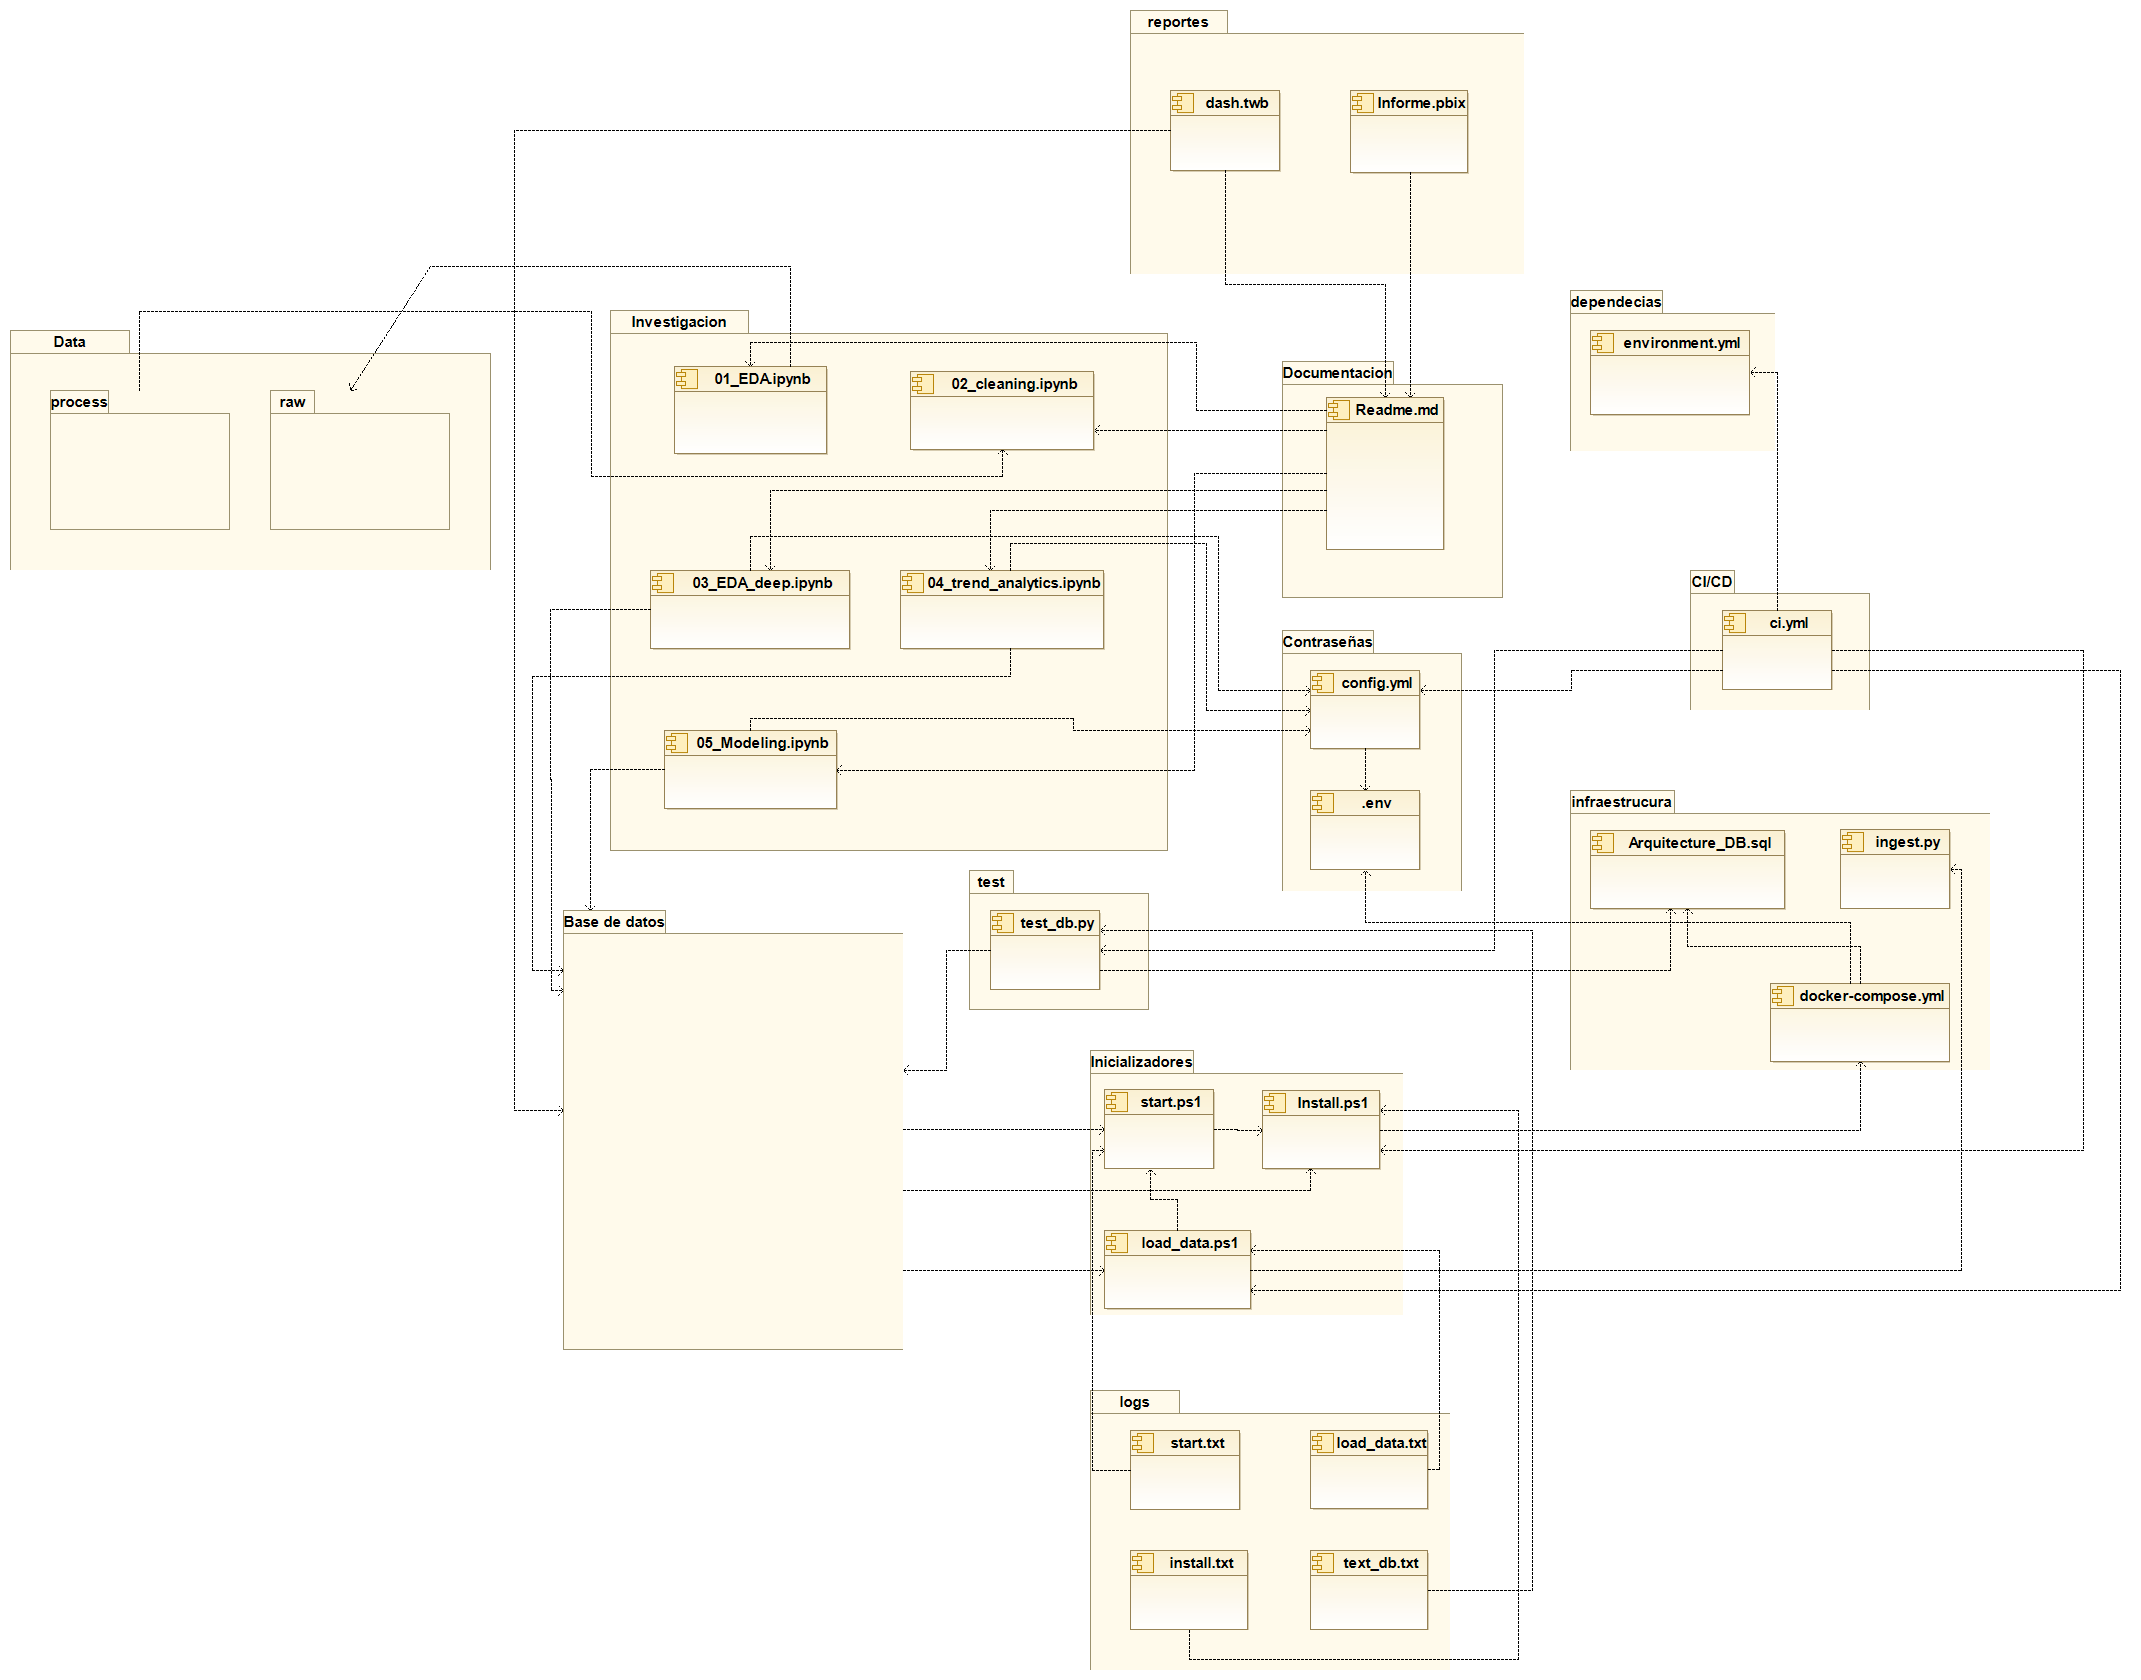
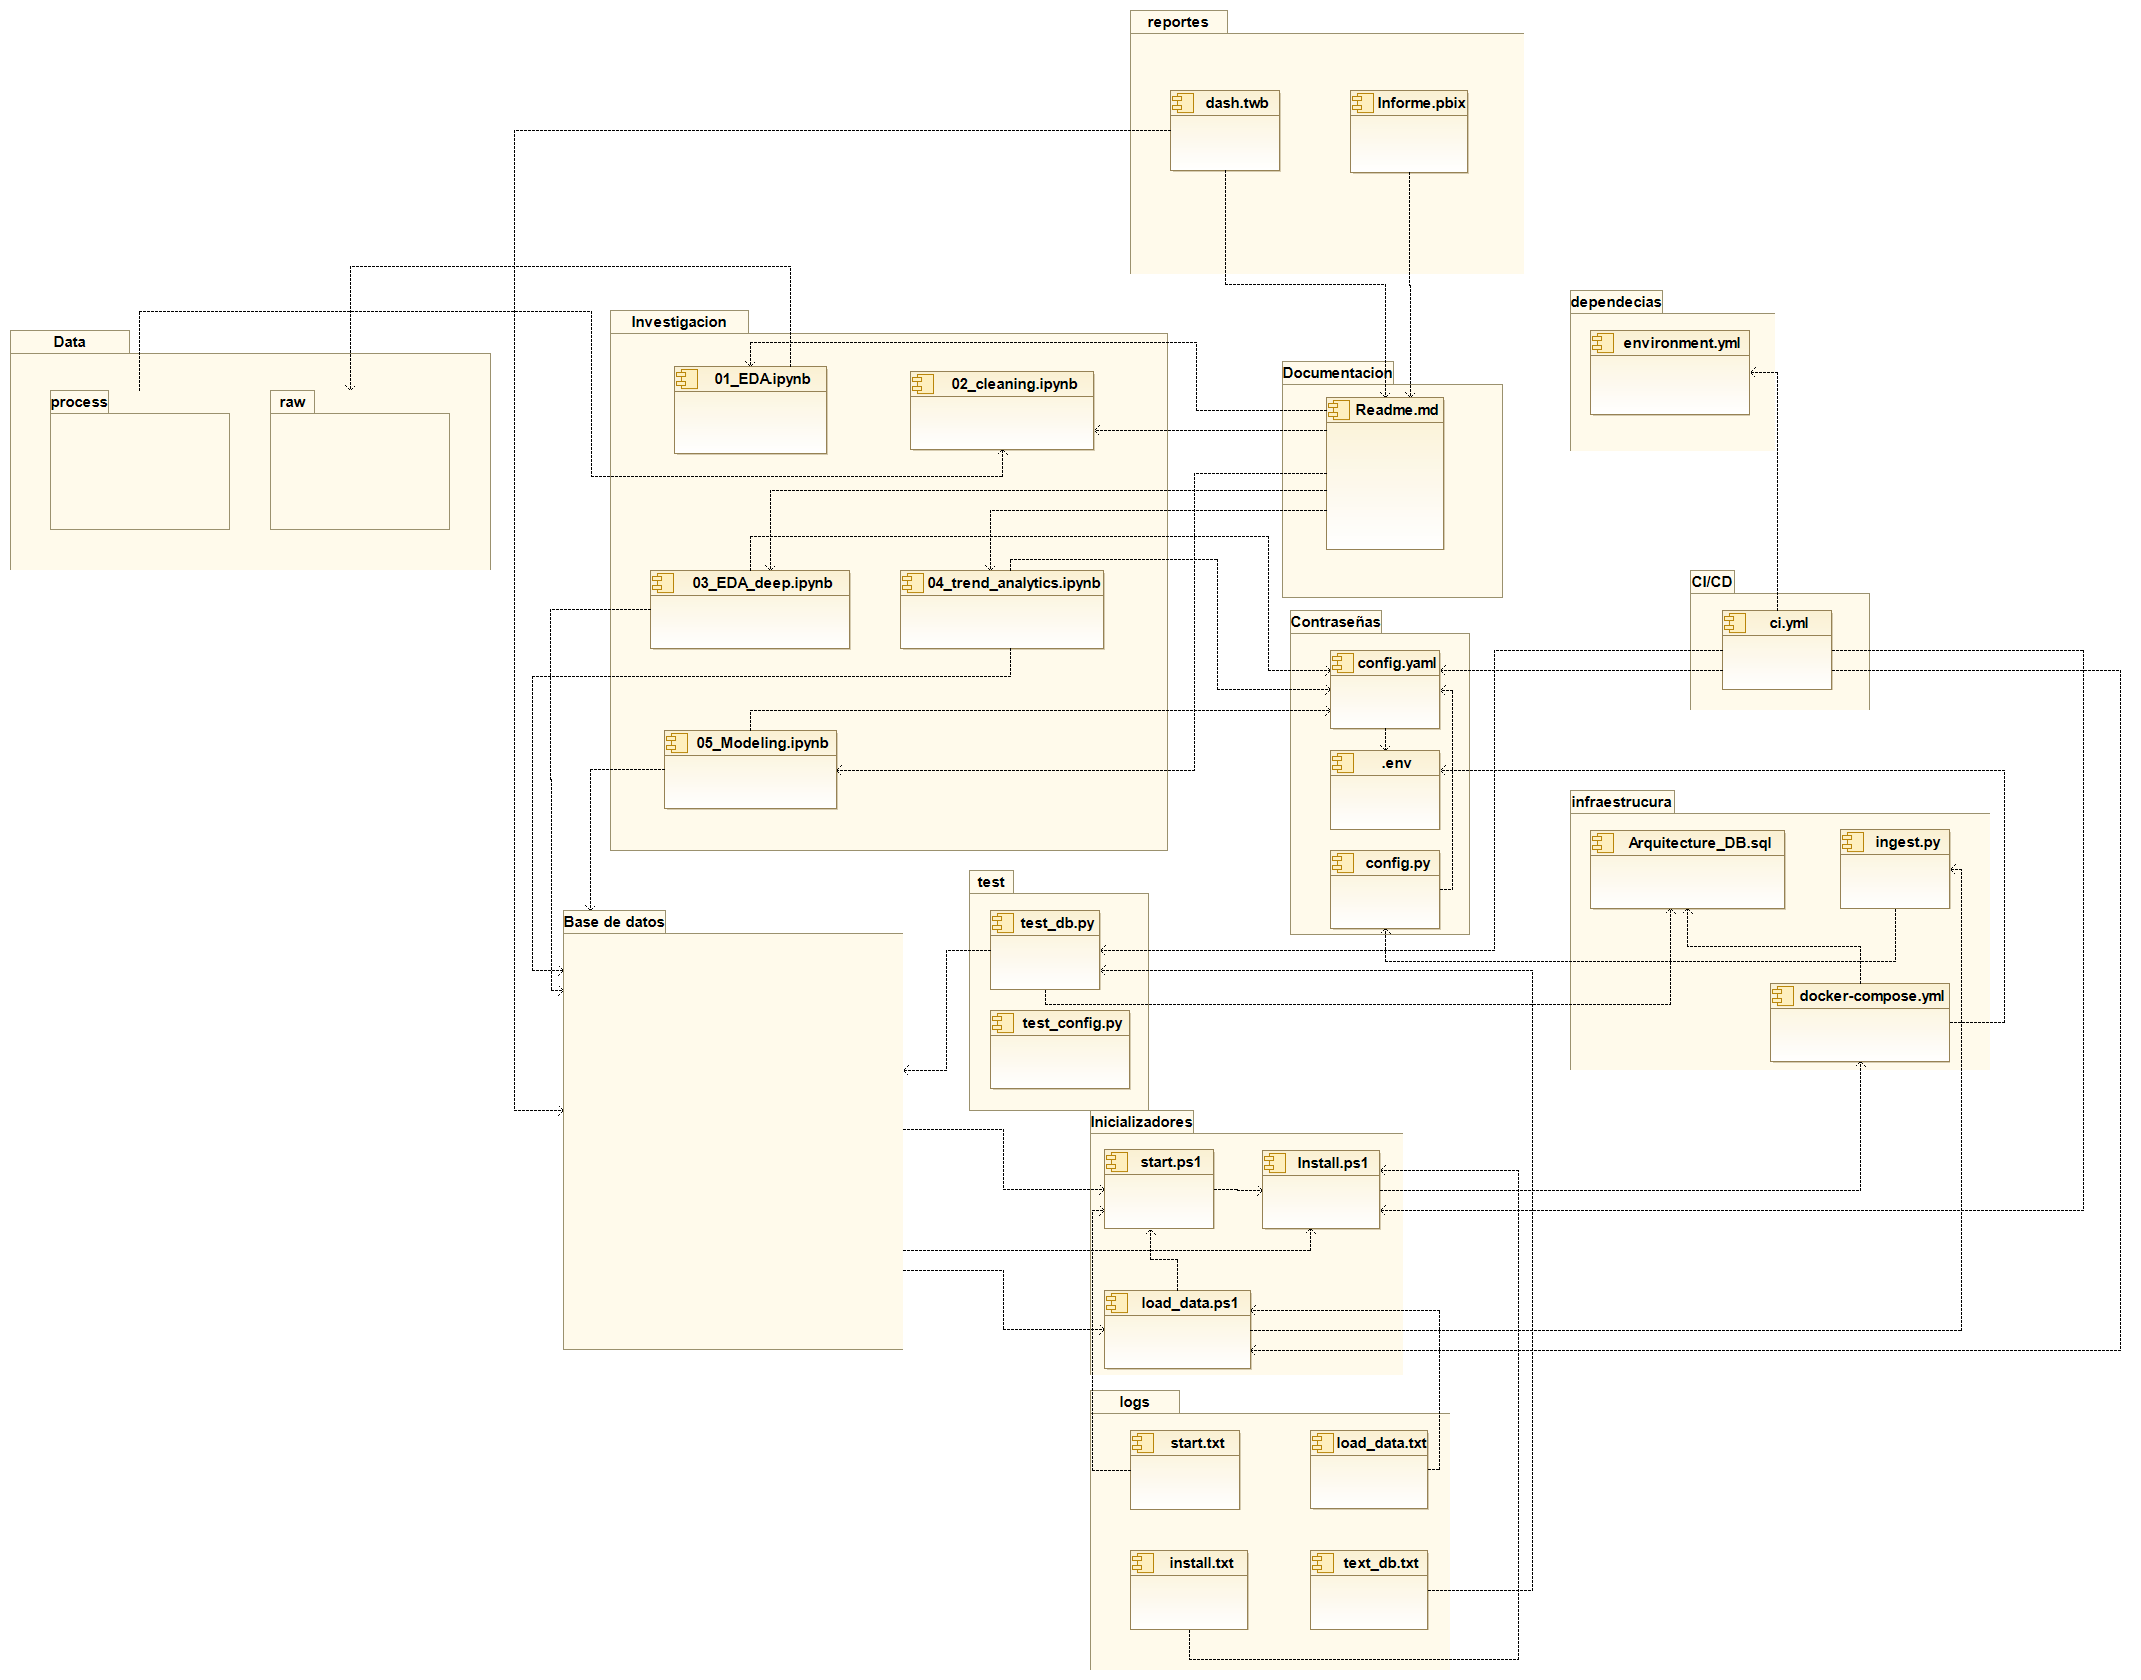
refactor(ingestion): load DB credentials from config.py instead of .env
- Removed dotenv and .env loading
- Imported config module and extracted database section
- Constructed DB_URL from config['database'] keys
- Updated get_database_engine to use new DB_URL

Changed region(s): [[0.4624, 0.5881, 0.6474, 0.8048], [0.5857, 0.3714, 0.6782, 0.5571]]

diff --git a/src/ingest.py b/src/ingest.py
@@ -1,15 +1,13 @@
 """
 Module: ingestion_pipeline.py
 Description: Chunked ingestion of CSV/Parquet data into a PostgreSQL database with
-Pandera validation.
+Pandera validation using credentials from config.py.
 """
 
-import os
 import sys
 import logging
-
 from typing import Iterator, Optional
-from dotenv import load_dotenv  # pylint: disable=all
+
 import pandas as pd
 import pandera as pa
 from pandera.typing import Series
@@ -17,16 +15,22 @@ from sqlalchemy import create_engine, text
 from sqlalchemy.engine import Engine
 from sqlalchemy.exc import SQLAlchemyError
 
-# Constants
-dotenv_path = os.path.join("infra", ".env")
-load_dotenv(dotenv_path, override=True)
+from config import config
 
-DB_URL: str = os.getenv("DB_URL") or (
-    f"postgresql+psycopg2://{os.getenv('POSTGRES_USER')}"
-    f":{os.getenv('POSTGRES_PASSWORD')}@{os.getenv('POSTGRES_HOST')}"
-    f":{os.getenv('POSTGRES_PORT')}/{os.getenv('POSTGRES_DB')}"
-)
+# Load database configuration
+try:
+    db_cfg = config["database"]
+    host = db_cfg["host"]
+    port = db_cfg["port"]
+    user = db_cfg["user"]
+    password = db_cfg["password"]
+    database = db_cfg["database"]
+except KeyError as exc:
+    logging.error("Missing database configuration key: %s", exc)
+    sys.exit(1)
 
+# Construct the database URL
+DB_URL: str = f"postgresql+psycopg2://{user}:{password}@{host}:{port}/{database}"
 
 # Configure logging
 logging.basicConfig(
